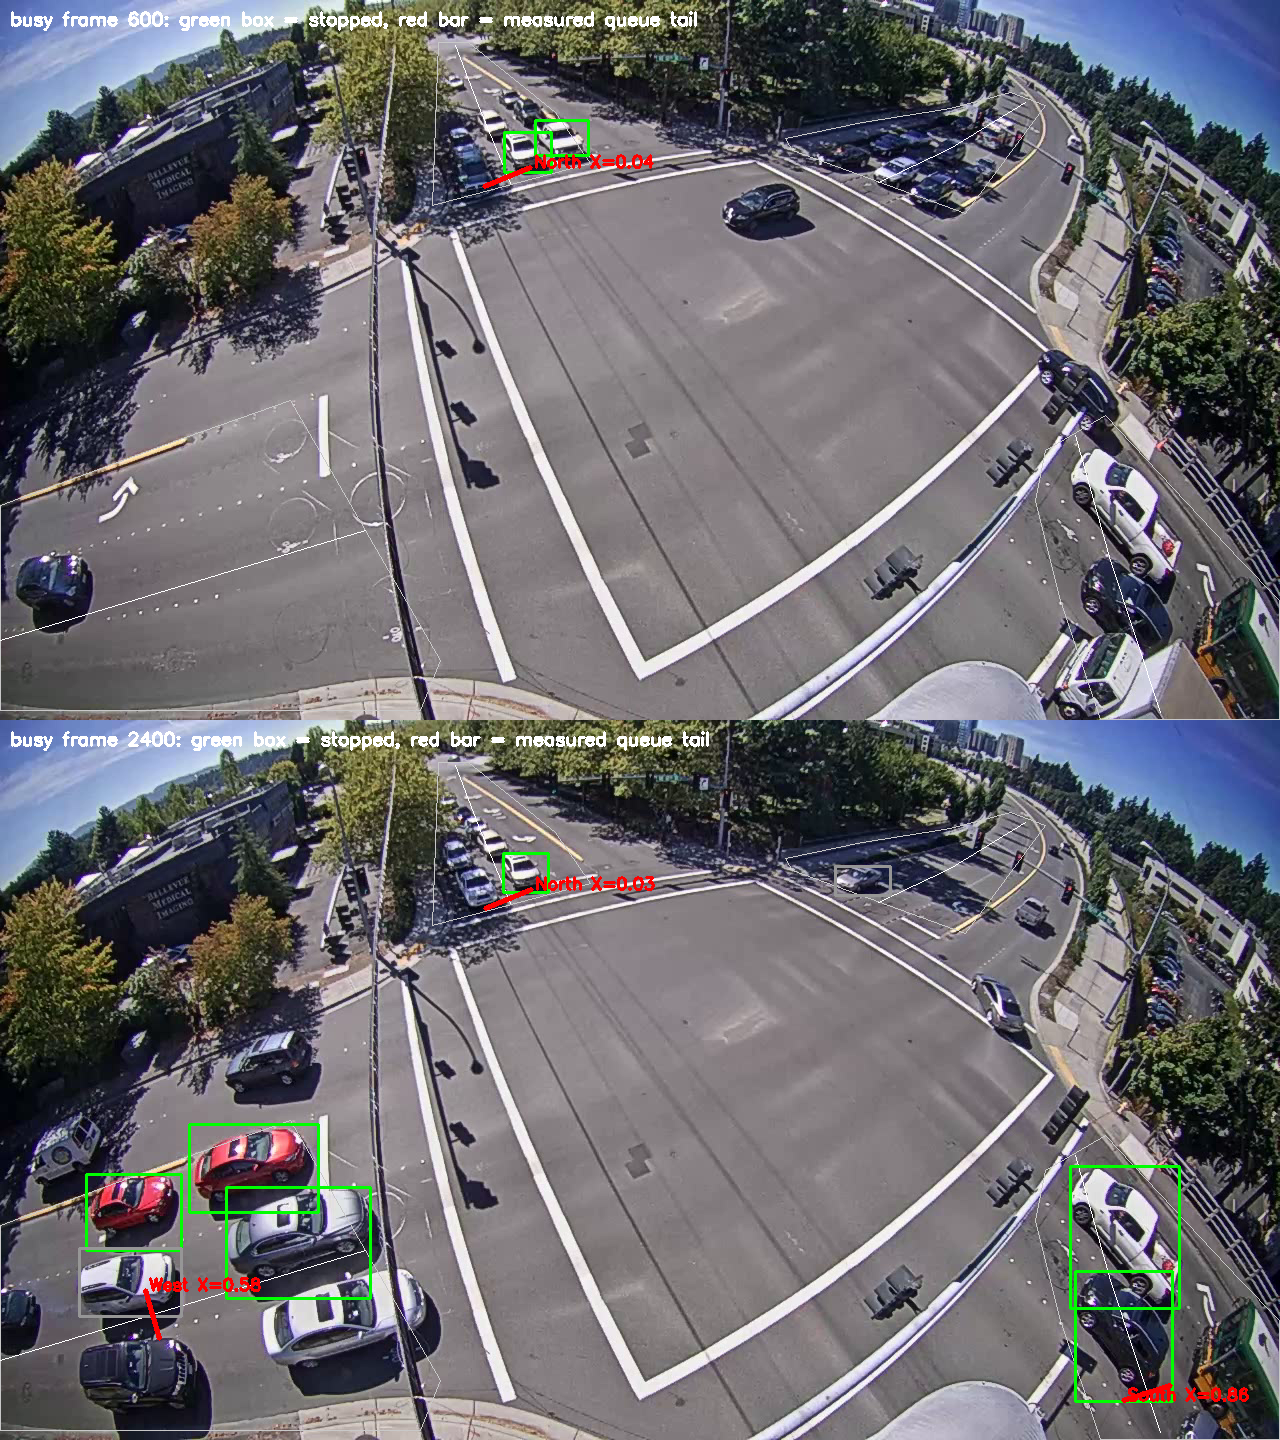
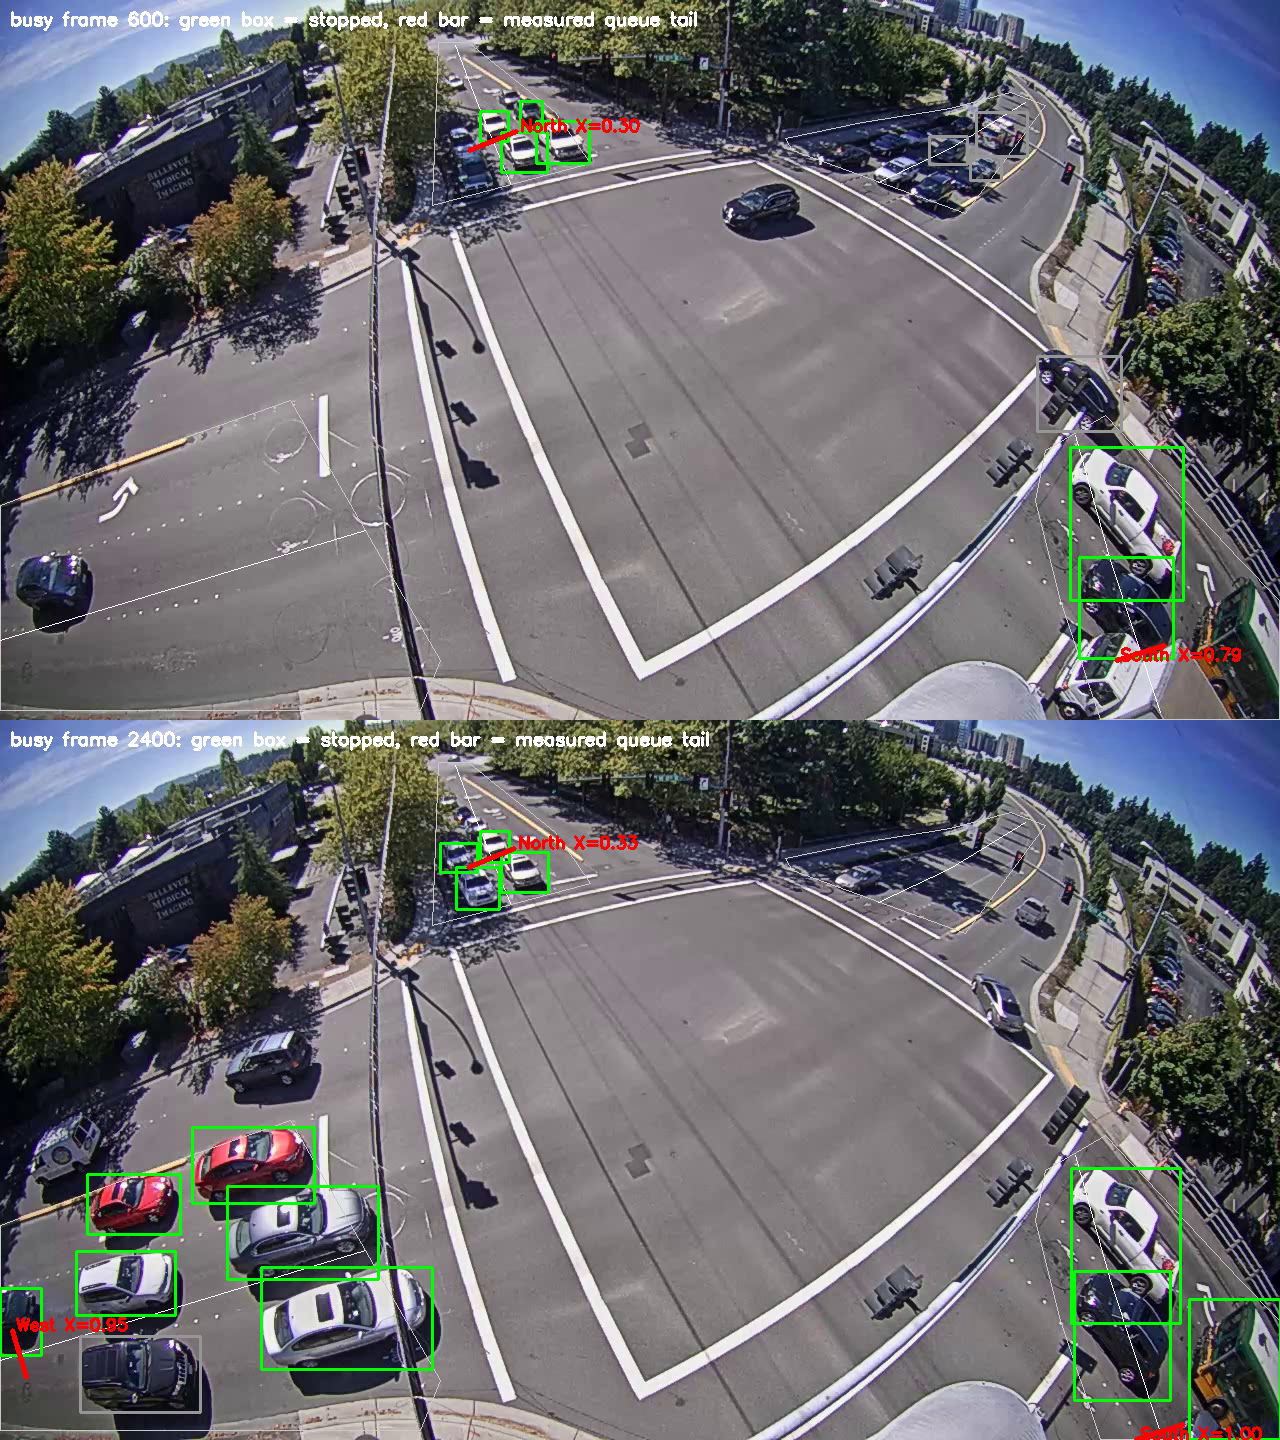
Scale queue-tail gap by vehicle length along the road, not box height
Side-on cars on the West leg are twice as wide as tall, so two box
heights were shorter than one car plus its gap and the chain broke
after the first row (X = 0.25 where the visible queue reached 0.95).
The gap allowance now uses the box's extent along the local road
direction, |w*ux| + |h*uy|, the same 'two vehicle lengths' rule the
simulation uses in metres. Validation image re-rendered with YOLOv8m.

Claude-Session: https://claude.ai/code/session_01TJt9o48NLB8RBz7eFNVKAv

diff --git a/src/lane_analysis.py b/src/lane_analysis.py
@@ -305,6 +305,25 @@ class ApproachAxis:
                 best_distance, best_arc = distance, start + t
         return min(max(best_arc / self.length, 0.0), 1.0)
 
+    def direction_at(self, point: tuple[float, float]) -> tuple[float, float]:
+        """Unit vector of the road (upstream) direction nearest to ``point``.
+
+        For a drawn polyline this is the direction of the segment the point projects onto,
+        so on a curved fisheye road it follows the local road direction; otherwise it is
+        the single axis direction.
+        """
+        if not self._polyline:
+            return (self._ux, self._uy)
+        px, py = float(point[0]), float(point[1])
+        best, best_distance = self._polyline[0], math.inf
+        for segment in self._polyline:
+            ax, ay, ux, uy, seg, _ = segment
+            t = min(max((px - ax) * ux + (py - ay) * uy, 0.0), seg)
+            distance = math.hypot(px - (ax + ux * t), py - (ay + uy * t))
+            if distance < best_distance:
+                best, best_distance = segment, distance
+        return (best[2], best[3])
+
     @property
     def upstream(self) -> tuple[float, float]:
         """The unit vector pointing upstream, away from the stop line.
@@ -699,6 +718,10 @@ class AssignedTrack:
     # displacement by (a distant vehicle has a small box and moves few pixels).
     # 0.0 on hand-built values that never came from a Track.
     box_height: float = 0.0
+    # Box width in pixels. With the height it gives the vehicle's extent ALONG the road
+    # (see ApproachAxis.direction_at), which is what the queue-tail gap is scaled by: a
+    # car seen side-on is wide and short, so its height alone understates its length.
+    box_width: float = 0.0
 
     def __post_init__(self) -> None:
         if self.approach is None and self.is_queueing:
@@ -838,6 +861,7 @@ class ApproachAssigner:
                         approach=None,
                         is_queueing=False,
                         box_height=float(track.height),
+                        box_width=float(track.width),
                     )
                 )
                 continue
@@ -865,6 +889,7 @@ class ApproachAssigner:
                     # own queue region — never a neighbour's.
                     is_queueing=point_in_polygon(chosen.queue_region, ref),
                     box_height=float(track.height),
+                    box_width=float(track.width),
                 )
             )
 

diff --git a/src/traffic_metrics.py b/src/traffic_metrics.py
@@ -469,7 +469,7 @@ class MetricsEngine:
                     if self._tail_gap_boxes > 0.0 and axis.length > 0.0:
                         allowance = (
                             self._tail_gap_boxes
-                            * float(getattr(track, "box_height", 0.0))
+                            * self._extent_along(axis, track, point)
                             / axis.length
                         )
                         stopped_items[approach].append(
@@ -614,6 +614,24 @@ class MetricsEngine:
         dx = point[0] - previous[0]
         dy = point[1] - previous[1]
         return math.hypot(dx, dy) < threshold
+
+    @staticmethod
+    def _extent_along(axis, track, point: tuple[float, float]) -> float:
+        """The vehicle's length along the road, in pixels, from its box.
+
+        The extent of an axis-aligned box of width ``w`` and height ``h`` along the unit
+        direction ``(ux, uy)`` is ``|w·ux| + |h·uy|``. Using the local road direction
+        rather than the box height alone matters on this camera: a car seen side-on (the
+        West leg) is about twice as wide as it is tall, so "two box heights" was shorter
+        than one car plus its gap and broke real queues apart. Falls back to the box
+        height when no width is known (hand-built tracks).
+        """
+        height = float(getattr(track, "box_height", 0.0))
+        width = float(getattr(track, "box_width", 0.0))
+        if width <= 0.0:
+            return height
+        ux, uy = axis.direction_at(point)
+        return abs(width * ux) + abs(height * uy)
 
     def _window_frames(self, dt: float) -> int:
         """Frames in the stopped-test window, or 0 in legacy per-frame mode."""

diff --git a/tests/test_robust_queue_measure.py b/tests/test_robust_queue_measure.py
@@ -229,3 +229,26 @@ def test_v2_geometry_loads_with_drawn_axes() -> None:
     for approach in cfg.approaches:
         # The first queue_axis point is the stop line: fraction 0.
         assert axes[approach.name].fraction(approach.queue_axis[0]) == pytest.approx(0.0)
+
+
+def test_gap_scales_with_extent_along_the_road_not_box_height(base: Config) -> None:
+    """A side-on car (wide, short box) on a horizontal road: its length along the road is
+    the box WIDTH. A queue of such cars spaced 1.5 car lengths apart must stay one queue."""
+    cfg = robust(load_config(str(CALIBRATED.parent / "bellevue_116th_v2.json")),
+                 queue_tail_gap=0.0, queue_tail_gap_boxes=2.0)
+    axis = build_approach_axes(cfg)["West"]          # roughly horizontal, ~380 px long
+    ux, uy = axis.upstream
+    engine = MetricsEngine(cfg)
+    spacing = 1.5 * 110.0                            # 110 px wide, 55 px tall cars
+    cars = []
+    for k in range(3):
+        d = 10.0 + k * spacing
+        p = (axis.origin[0] + ux * d, axis.origin[1] + uy * d)
+        cars.append(AssignedTrack(track_id=k + 1, vehicle_class="car", ref_point=p, approach="West",
+                                  is_queueing=(k == 0), box_height=55.0, box_width=110.0))
+    out = None
+    for _ in range(40):
+        out = engine.update(cars, ALL_RED, DT)["West"]
+    # Box height alone (2 x 55 = 110 px) is less than the 165 px spacing and would cut the
+    # chain after the first car; the extent along the road (about 2 x 110) keeps it whole.
+    assert out.queue_reach == pytest.approx((10.0 + 2 * spacing) / axis.length, abs=0.03)

diff --git a/src/config.py b/src/config.py
@@ -190,8 +190,8 @@ class Config:
     stopped_speed_ratio: float = 0.2        # > 0, box heights per second
     queue_tail_gap: float = 0.0             # 0..1, 0 = legacy max reach
     # Perspective-scaled form of the same rule, for video: consecutive stopped vehicles
-    # belong to one queue when they are at most this many BOX HEIGHTS apart along the
-    # queue axis, and a chain may start at any stopped vehicle inside the Queue_Region.
+    # belong to one queue when they are at most this many VEHICLE LENGTHS apart along the
+    # queue axis (a vehicle's length = its box's extent along the local road direction), and a chain may start at any stopped vehicle inside the Queue_Region.
     # A fixed axis fraction cannot work on a fisheye view, where one car near the camera
     # spans half the axis and one far away a few percent. > 0 overrides queue_tail_gap.
     queue_tail_gap_boxes: float = 0.0       # >= 0, 0 = use queue_tail_gap

diff --git a/audit/render_queue_tail.py b/audit/render_queue_tail.py
@@ -31,7 +31,7 @@ cfg = dataclasses.replace(
 )
 axes = build_approach_axes(cfg)
 assigner, engine = ApproachAssigner(cfg), MetricsEngine(cfg)
-tracker = CachedTracker(f"results/track_cache/bellevue_116th_{args.clip}__yolov8n__c0p30.json.gz", cfg)
+tracker = CachedTracker(f"results/track_cache/bellevue_116th_{args.clip}__yolov8m__c0p30.json.gz", cfg)
 cap = cv2.VideoCapture(f"videos/bellevue_116th_{args.clip}.mp4")
 wanted, panels = set(args.frames), []
 

diff --git a/docs/TECHNICAL_GUIDE.md b/docs/TECHNICAL_GUIDE.md
@@ -140,7 +140,7 @@ storage*, it needs no camera calibration and no metres.
 3. If a point lies in two ROIs (a calibration fault), the nearest ROI centroid wins and the
    event is logged.
 4. `is_queueing = p` lies in that approach's queue strip Θ.
-5. The box height is carried along. The stopped test and the queue-tail gap need it.
+5. The box height and width are carried along. The stopped test divides by the height; the queue-tail gap uses the box's extent along the road.
 
 ## 7. Measurements D, Q, A
 
@@ -192,7 +192,7 @@ of stopped. Measured effect: stops per vehicle on the busy clip fell from 4.28 t
 
 **Definition.** A queue is a chain of stopped vehicles that starts at the stop line. For
 each stopped vehicle on approach *i*, take its axis fraction `f`, its gap allowance
-`g = 2 × box_height / axis_length`, and whether it is in Θ. Sort by `f`, then walk upstream:
+`g = 2 × L / axis_length`, where `L = |w·ux| + |h·uy|` is the box's extent along the local road direction `(ux, uy)` (i.e. the vehicle's length on the road), and whether it is in Θ. Sort by `f`, then walk upstream:
 
 ```
 start the chain at the first stopped vehicle that is in Θ (or within its g of the line)
@@ -208,6 +208,12 @@ X_i = f of the last vehicle in the chain   (0 if there is no chain)
 * *Scaled:* on a fisheye view one car near the camera spans about half the axis, and one
   far away a few percent. A fixed gap either breaks every near queue or bridges every far
   gap. "Two vehicle lengths" is the same physical rule everywhere in the image.
+* *Length along the road, not box height:* the first version used box height. On the West
+  leg cars are seen side-on (box about 110 px wide, 55 px tall), so two box heights were
+  shorter than one car plus its gap, and the chain broke after the first row: X = 0.25
+  where the visible queue reached 0.95. Projecting the box onto the road direction fixed
+  it (`MetricsEngine._extent_along`; test
+  `test_gap_scales_with_extent_along_the_road_not_box_height`).
 
 *Worked example:* stopped cars at f = 0.10 (in Θ), 0.30 and 0.48, then a lone stopped car
 at 0.95, each with g = 0.25. The chain runs 0.10 → 0.30 (gap 0.20) → 0.48 (gap 0.18).

diff --git a/docs/VIVA_QA.md b/docs/VIVA_QA.md
@@ -99,8 +99,8 @@ the road; fraction because it needs no camera calibration or metres.
    height per second over the last second.
 2. Each stopped vehicle gets its axis fraction.
 3. Sort them. Start at the first stopped vehicle inside the stop-line strip.
-4. Walk upstream while each next vehicle is within two of its own box heights of the
-   previous one.
+4. Walk upstream while each next vehicle is within two of its own vehicle lengths of the
+   previous one (length = its box's extent along the road direction).
 5. X is the position of the last vehicle in that chain.
 
 Code: `queue_tail_reach_scaled`, `src/traffic_metrics.py`.
@@ -259,6 +259,12 @@ After making the stopped test robust, X on the old geometry dropped to about 0 o
 approach. I then plotted where queued vehicles sat along each axis: 0.2–0.9 instead of
 near 0. Overlaying the ROIs showed one polygon spanning two legs, and the calibrated axes
 for North and West reversed (outbound traffic dominated the motion votes).
+
+**"Why is the queue gap measured along the road and not in box heights?"**
+Cars on the West leg are seen side-on, so their box is twice as wide as it is tall. Using
+box height cut real queues after the first row (X = 0.25 where the visible queue reached
+0.95). The vehicle's length on the road is its box projected onto the road direction:
+|w·ux| + |h·uy|. That is the same "two vehicle lengths" rule the simulation uses in metres.
 
 **"Why a stopped threshold of 0.2 box heights per second?"**
 About 1 m/s for a 5 m car, a usual meaning of "stopped" in traffic engineering. Dividing

diff --git a/README.md b/README.md
@@ -36,6 +36,7 @@ Existing paper (Raza) → limitation (reactive, count-only) → T-ITS research (
 |---|---|
 | [`report/FINAL_REPORT.md`](report/FINAL_REPORT.md) | The research report: problem → Raza → Li/Wei → enhancement → experiments → results → limitations |
 | [`docs/TECHNICAL_GUIDE.md`](docs/TECHNICAL_GUIDE.md) | How every stage works: formulas, code locations, design reasons, worked examples |
+| [`docs/STUDY_GUIDE.md`](docs/STUDY_GUIDE.md) | How to learn the project in depth: derivations, exercises, presentation and demo plan |
 | [`docs/VIVA_QA.md`](docs/VIVA_QA.md) | Exact answers to the 32 expected questions and the hard follow-ups |
 | [`AUDIT_REPORT.md`](AUDIT_REPORT.md) | What was wrong with the earlier results, how it was found, how it was fixed |
 | [`sim/PROTOCOL.md`](sim/PROTOCOL.md) | The closed-loop experiment, frozen before the test runs |

diff --git a/report/FINAL_REPORT.md b/report/FINAL_REPORT.md
@@ -120,8 +120,8 @@ grows. F can signal clearing, never further growth.
   height per second over the last second. Tracking (ByteTrack) is what makes this
   possible: it compares the *same* vehicle across frames.
 * **X**, the queue tail: the position of the last vehicle in the contiguous chain of
-  stopped vehicles that starts at the stop line. Consecutive members may be at most two
-  box heights apart.
+  stopped vehicles that starts at the stop line. Consecutive members may be at most two vehicle lengths apart, a length being the box's
+  extent along the local road direction.
 * **S**, local spillback risk: `S = clamp(X + dX/dt · 5 s)`, with the slope fitted by least
   squares over 2.5 s. S rises above X for a growing queue, equals X for a steady one, and
   falls below X for a clearing one. It does this even while Q = 1.
